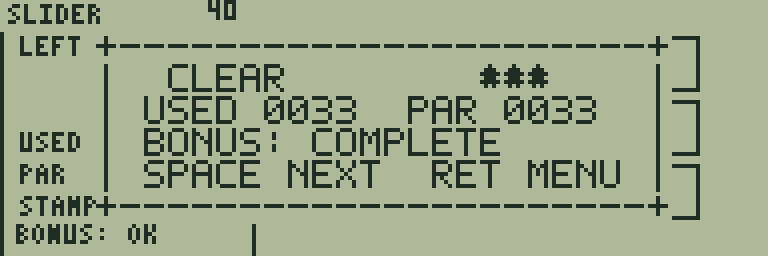
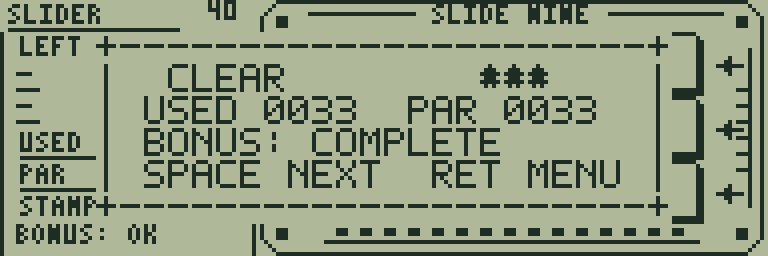
Improve SLIDE NINE visual clarity

diff --git a/games/slide-nine/generate.py b/games/slide-nine/generate.py
@@ -8,13 +8,16 @@ root=Path(__file__).parent
 from puzzle_assets import campaign, level_records, challenge_data
 levels=campaign(root)
 from digit_art import draw_digits
+from depth_art import raised
 from visual_art import tiny
+from panel import panel_art
+from puzzle_assets import pack
 sprites=[]
 for n in range(9):
     b=Bitmap(32,16)
-    # Flat, separated frames distinguish the stationary destination from the
-    # numbered tiles. The blank is a recessed central well, without a cursor.
-    b.rect(1,1,30,14)
+    # Beveled tiles sit inside the puzzle case. The stationary patterned frame
+    # and the inverse moving number retain separate visual roles.
+    raised(b)
     if n:
         draw_digits(b,str(n),10,4,'slide-nine',2,1)
     else:
@@ -27,7 +30,8 @@ for pair in range(4):
     b=Bitmap(32,16)
     for side in range(2):
         n=pair*2+side+1; face=Bitmap(16,16)
-        face.line(0,1,15,1);face.line(0,14,15,14)
+        for y in range(16):
+            for x in range(16):face.dot(x,y,sprites[n].p[y][x+8])
         face.rect(0,3,14,9,1,True)
         digit=Bitmap(32,16);draw_digits(digit,str(n),10,4,'slide-nine',2,1)
         for y in range(16):
@@ -39,6 +43,7 @@ for pair in range(4):
     sprites.append(b)
 for complete in (False,True):
     b=Bitmap(32,16)
+    raised(b)
     for y in range(1,15):
         for x in range(1,31):
             if x in (1,2,29,30) or y in (1,2,13,14):
@@ -51,4 +56,5 @@ stamp=[]
 for n in range(1,9):
     b=Bitmap(6,8);b.rect(0,0,6,7,1,True);tiny(b,str(n),1,1,0);stamp+=b.bytes()
 data+=asm_bytes('slide_stamp_faces',stamp)
+data+=asm_bytes('slide_panel_art',pack(panel_art().bytes()))
 assets(root,'SLIDE NINE','slide-nine',3,3,4,2,sprites,40,data,stat='LEFT',action='MOVE')

diff --git a/games/slide-nine/panel.py b/games/slide-nine/panel.py
@@ -1,0 +1,37 @@
+# SPDX-License-Identifier: MIT
+from art import Bitmap
+from visual_art import tiny, poly
+
+
+def panel_art():
+    b=Bitmap()
+    tiny(b,'SLIDER',2,1)
+    b.line(2,7,44,7)
+    b.line(0,8,0,63);b.line(63,8,63,63)
+    for label,y in [('LEFT',9),('USED',33),('PAR',41),('STAMP',49)]:tiny(b,label,5,y)
+    # Small scales frame the large counter without touching its digit area.
+    for y,length in [(18,3),(22,5),(26,3),(30,5)]:
+        b.line(4,y,4+length,y);b.line(59-length,y,59,y)
+    for y in (39,47):
+        b.line(5,y,24,y);b.line(27,y,31,y)
+    # A fitted case, side runners, screws and vents surround the sliding tiles.
+    poly(b,[(69,0),(186,0),(190,4),(190,59),(186,63),(69,63),(65,59),(65,4),(69,0)])
+    tiny(b,'SLIDE NINE',108,1)
+    b.line(77,3,103,3);b.line(152,3,180,3)
+    for x in (70,185):
+        for y in (5,58):
+            b.rect(x-1,y-1,3,3);b.dot(x,y)
+    for x in (68,187):b.line(x,12,x,51)
+    for y in (16,32,48):
+        b.line(70,y,76,y);b.line(179,y,185,y)
+        poly(b,[(73,y-2),(75,y),(73,y+2)])
+        poly(b,[(182,y-2),(180,y),(182,y+2)])
+    for x in (71,184):
+        for y in range(22,46,4):b.line(x,y,x+2,y)
+    b.line(81,60,174,60)
+    for x in range(84,173,6):b.rect(x,57,3,2,1,True)
+    # Static decorations may not overlap a dynamic number or playable tile.
+    for x,y,w,h in [(48,0,12,8),(15,16,33,16),(43,32,16,8),
+                    (43,40,16,8),(54,48,6,8),(4,56,56,8),(80,8,96,48)]:
+        assert not any(b.p[Y][X] for Y in range(y,y+h) for X in range(x,x+w)), (x,y,w,h)
+    return b

diff --git a/games/slide-nine/README.md b/games/slide-nine/README.md
@@ -10,7 +10,7 @@
 
 ## 遊び方
 
-方向キーで空きマスを動かし、上段1・2・3、中段4・5・6、下段7・8・空きの順に並べます。追加目標は、STAMPに示す数字のタイルを、模様付きの枠のマスへ一度運ぶことです。対象の数字は盤面とSTAMPの両方で白抜き表示になります。模様付きの枠は移動先に固定され、達成すると太い枠と BONUS: OK に変わります。最終配置とは別の位置へ立ち寄る必要があります。
+方向キーで空きマスを動かし、上段1・2・3、中段4・5・6、下段7・8・空きの順に並べます。追加目標は、STAMPに示す数字のタイルを、模様付きの枠のマスへ一度運ぶことです。対象の数字は盤面とSTAMPの両方で白抜き表示になります。タイルは厚みのある枠で描き、盤面のケースと側面のガイドでスライドパズルらしい外観にしています。模様付きの枠は移動先に固定され、達成すると太い枠と BONUS: OK に変わります。最終配置とは別の位置へ立ち寄る必要があります。
 
 RETURNメニューから1手戻しと再挑戦ができます。
 
